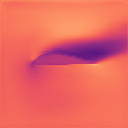
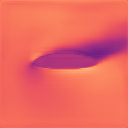
ui update

Changed region(s): [[0.25, 0.3125, 0.7812, 0.625], [0.4375, 0.0312, 0.8125, 0.2812]]

diff --git a/app.py b/app.py
@@ -4,7 +4,8 @@ import tempfile
 import torch
 import numpy as np
 from imageio import imread
-import os
+from PIL import Image
+import os  
 
 
 from DfpNet import TurbNetG 
@@ -58,10 +59,17 @@ airfoil_type = st.sidebar.multiselect('Airfoil type', airfoil_files)
 
 
 st.sidebar.write('OR')
-st.sidebar.write('Upload input file in npz format')
+airfoil_img_file = st.sidebar.file_uploader('Choose airfoil file (Binary Image)', type='png')
 
-upload_file = st.sidebar.file_uploader('Choose file...')
 
+
+
+my_expander = st.sidebar.beta_expander('Upload input file in npz format')
+# my_expander.write('Upload input file in npz format')
+upload_file = my_expander.file_uploader('Choose file...')
+
+
+st.sidebar.write('')
 sts = st.sidebar.button('Submit')
 
 
@@ -79,9 +87,13 @@ if sts:
             st.image('result/result.png')
             st.balloons()
 
-    elif ux and uy and airfoil_type:
-        print(airfoil_type)
-        im = imread(f'airfoils/{airfoil_type[0]}.png')
+    elif ux and uy and (airfoil_type or airfoil_img_file):
+        if airfoil_type:
+            im = imread(f'airfoils/{airfoil_type[0]}.png')
+        else:
+            image = Image.open(airfoil_img_file)
+            im = np.array(image)  
+        
         np_im = np.array(im)
         np_im = np_im / np.max(np_im)
 
@@ -123,9 +135,3 @@ if sts:
             col3.header('Pressure')
             col3.image('result/result_pressure_pred.png', use_column_width=True)
             st.balloons()
-
-
-
-
-
-
